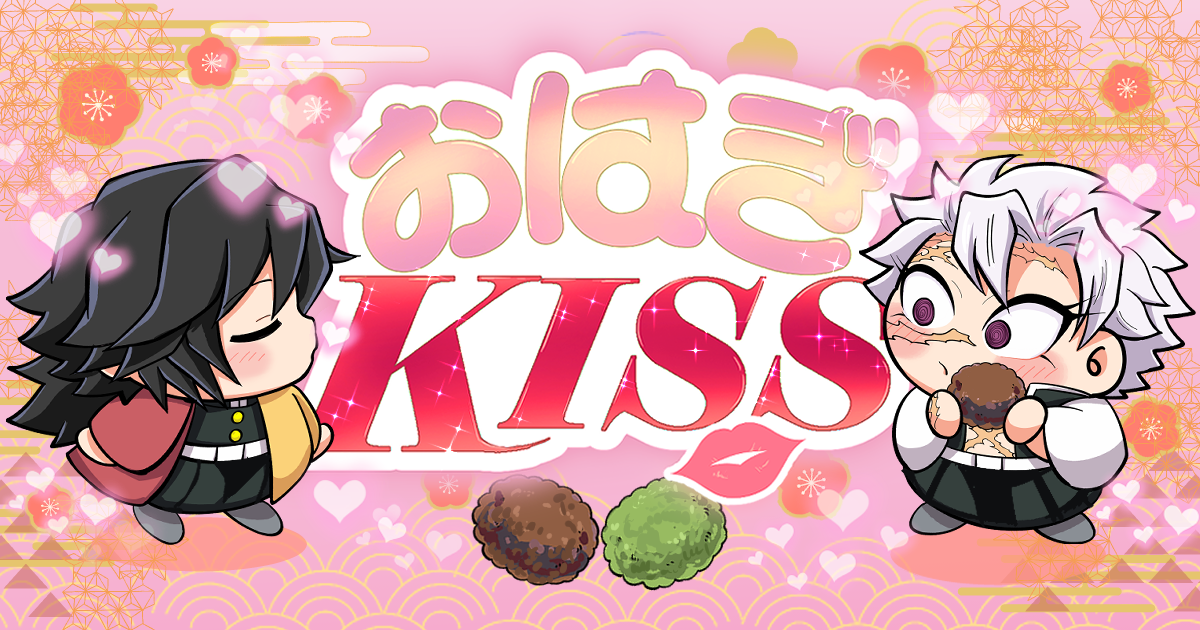
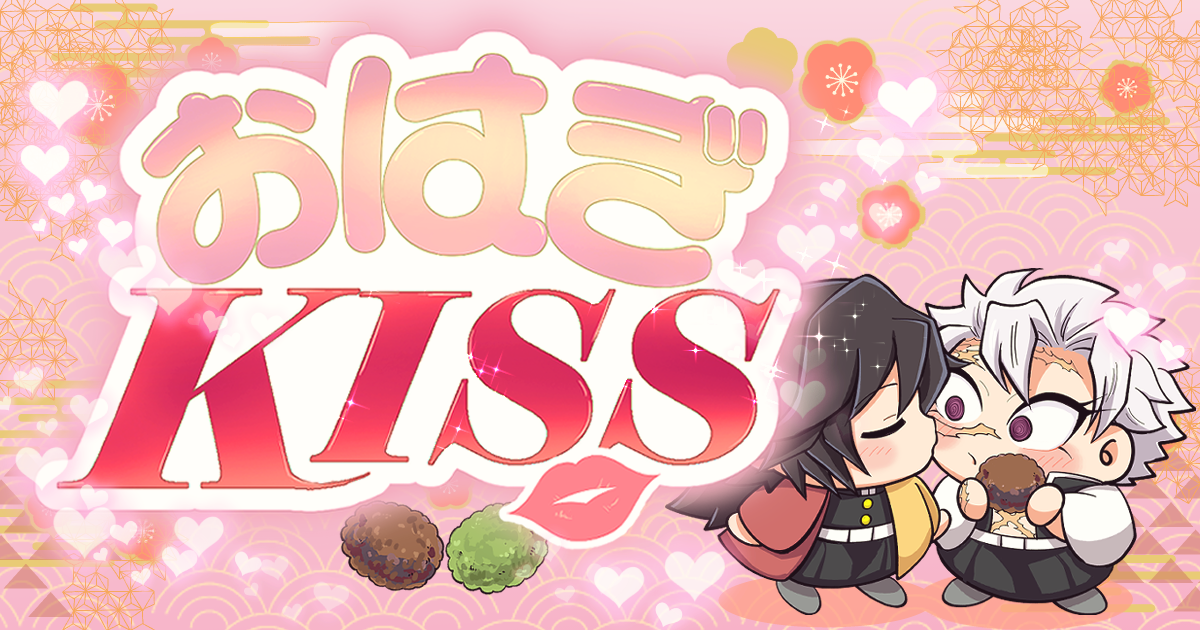
Refresh link card

diff --git a/game.js b/game.js
@@ -178,7 +178,7 @@ function stop() {
   giyuImage.src = IMAGES.giyuAttack;
   const distance = Math.abs(offset);
   const mobile = matchMedia("(max-width: 600px)").matches;
-  if (distance <= (mobile ? 15 : SETTINGS.kissRange)) {
+  if (distance <= (mobile ? 14 : SETTINGS.kissRange)) {
     stage.className = "approach kiss";
     offset = 0;
     draw();
@@ -399,7 +399,7 @@ $("shareResult").addEventListener("click", () => {
     `おはぎKISSで ${finishedScore}回キス！💋`,
     "あなたは30秒で何回チュッできる？",
     "",
-    "https://akamakimaki.github.io/ohagi-kiss/?share=1",
+    "https://akamakimaki.github.io/ohagi-kiss/?share=2",
     "",
     "#おはぎKISS"
   ].join("\n");

diff --git a/index.html b/index.html
@@ -10,7 +10,7 @@
   <meta property="og:title" content="おはぎKISS">
   <meta property="og:description" content="30秒で、何回チュッできる？">
   <meta property="og:url" content="https://akamakimaki.github.io/ohagi-kiss/">
-  <meta property="og:image" content="https://akamakimaki.github.io/ohagi-kiss/images/linkcard.png">
+  <meta property="og:image" content="https://akamakimaki.github.io/ohagi-kiss/images/linkcard-v2.png">
   <meta property="og:image:width" content="1200">
   <meta property="og:image:height" content="630">
   <meta name="twitter:card" content="summary_large_image">
